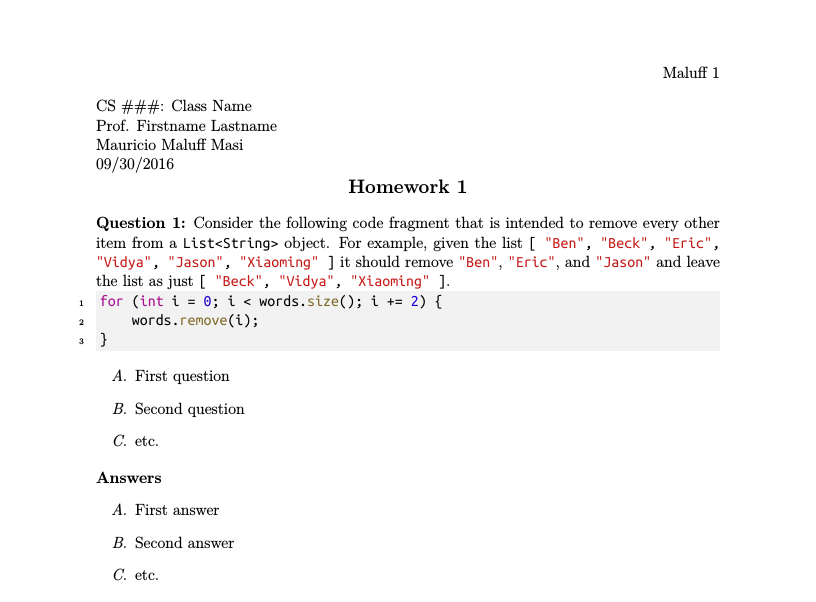
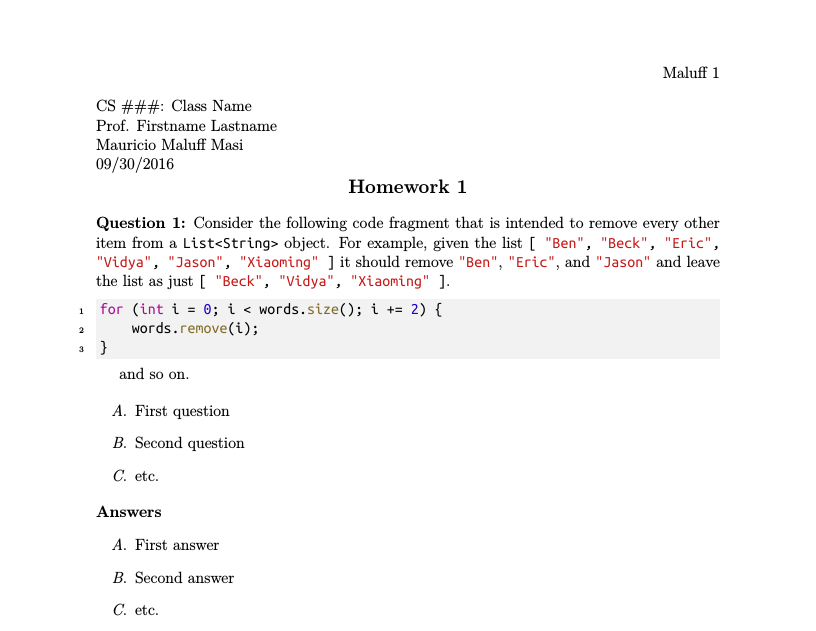
Add more space around code blocks

diff --git a/CS.tex b/CS.tex
@@ -9,11 +9,20 @@
 \usepackage{fontspec} % Fancy fonts
 
 % Make my code look nice
+
+% Set font used or code
 \setmonofont{Ubuntu Mono}
-\usemintedstyle{xcode} % Pick the style for minted syntax highlighting
-\definecolor{bg}{gray}{0.95} % Background color for minted
-\newminted{java}{bgcolor=bg,linenos} % Default options for Java (use javacode environment to take advantage of it)
-\newcommand{\code}{\mintinline{java}} % Use \code{} for inline Java
+% Pick the style for minted syntax highlighting
+\usemintedstyle{xcode}
+% Background color for minted
+\definecolor{bg}{gray}{0.95}
+% Default options for Java (use javacode environment to take advantage of it)
+\newminted{java}{bgcolor=bg,linenos}
+% Use \code{} for inline Java
+\newcommand{\code}{\mintinline{java}}
+% Add spaces around code blocks
+\BeforeBeginEnvironment{minted}{\medskip}
+\AfterEndEnvironment{minted}{\medskip}
 
 
 % Header
@@ -58,7 +67,6 @@ for (int i = 0; i < words.size(); i += 2) {
 	\item First answer
 	\item Second answer
 	\item etc.
-
 \end{enumerate}
 
 \end{document}
